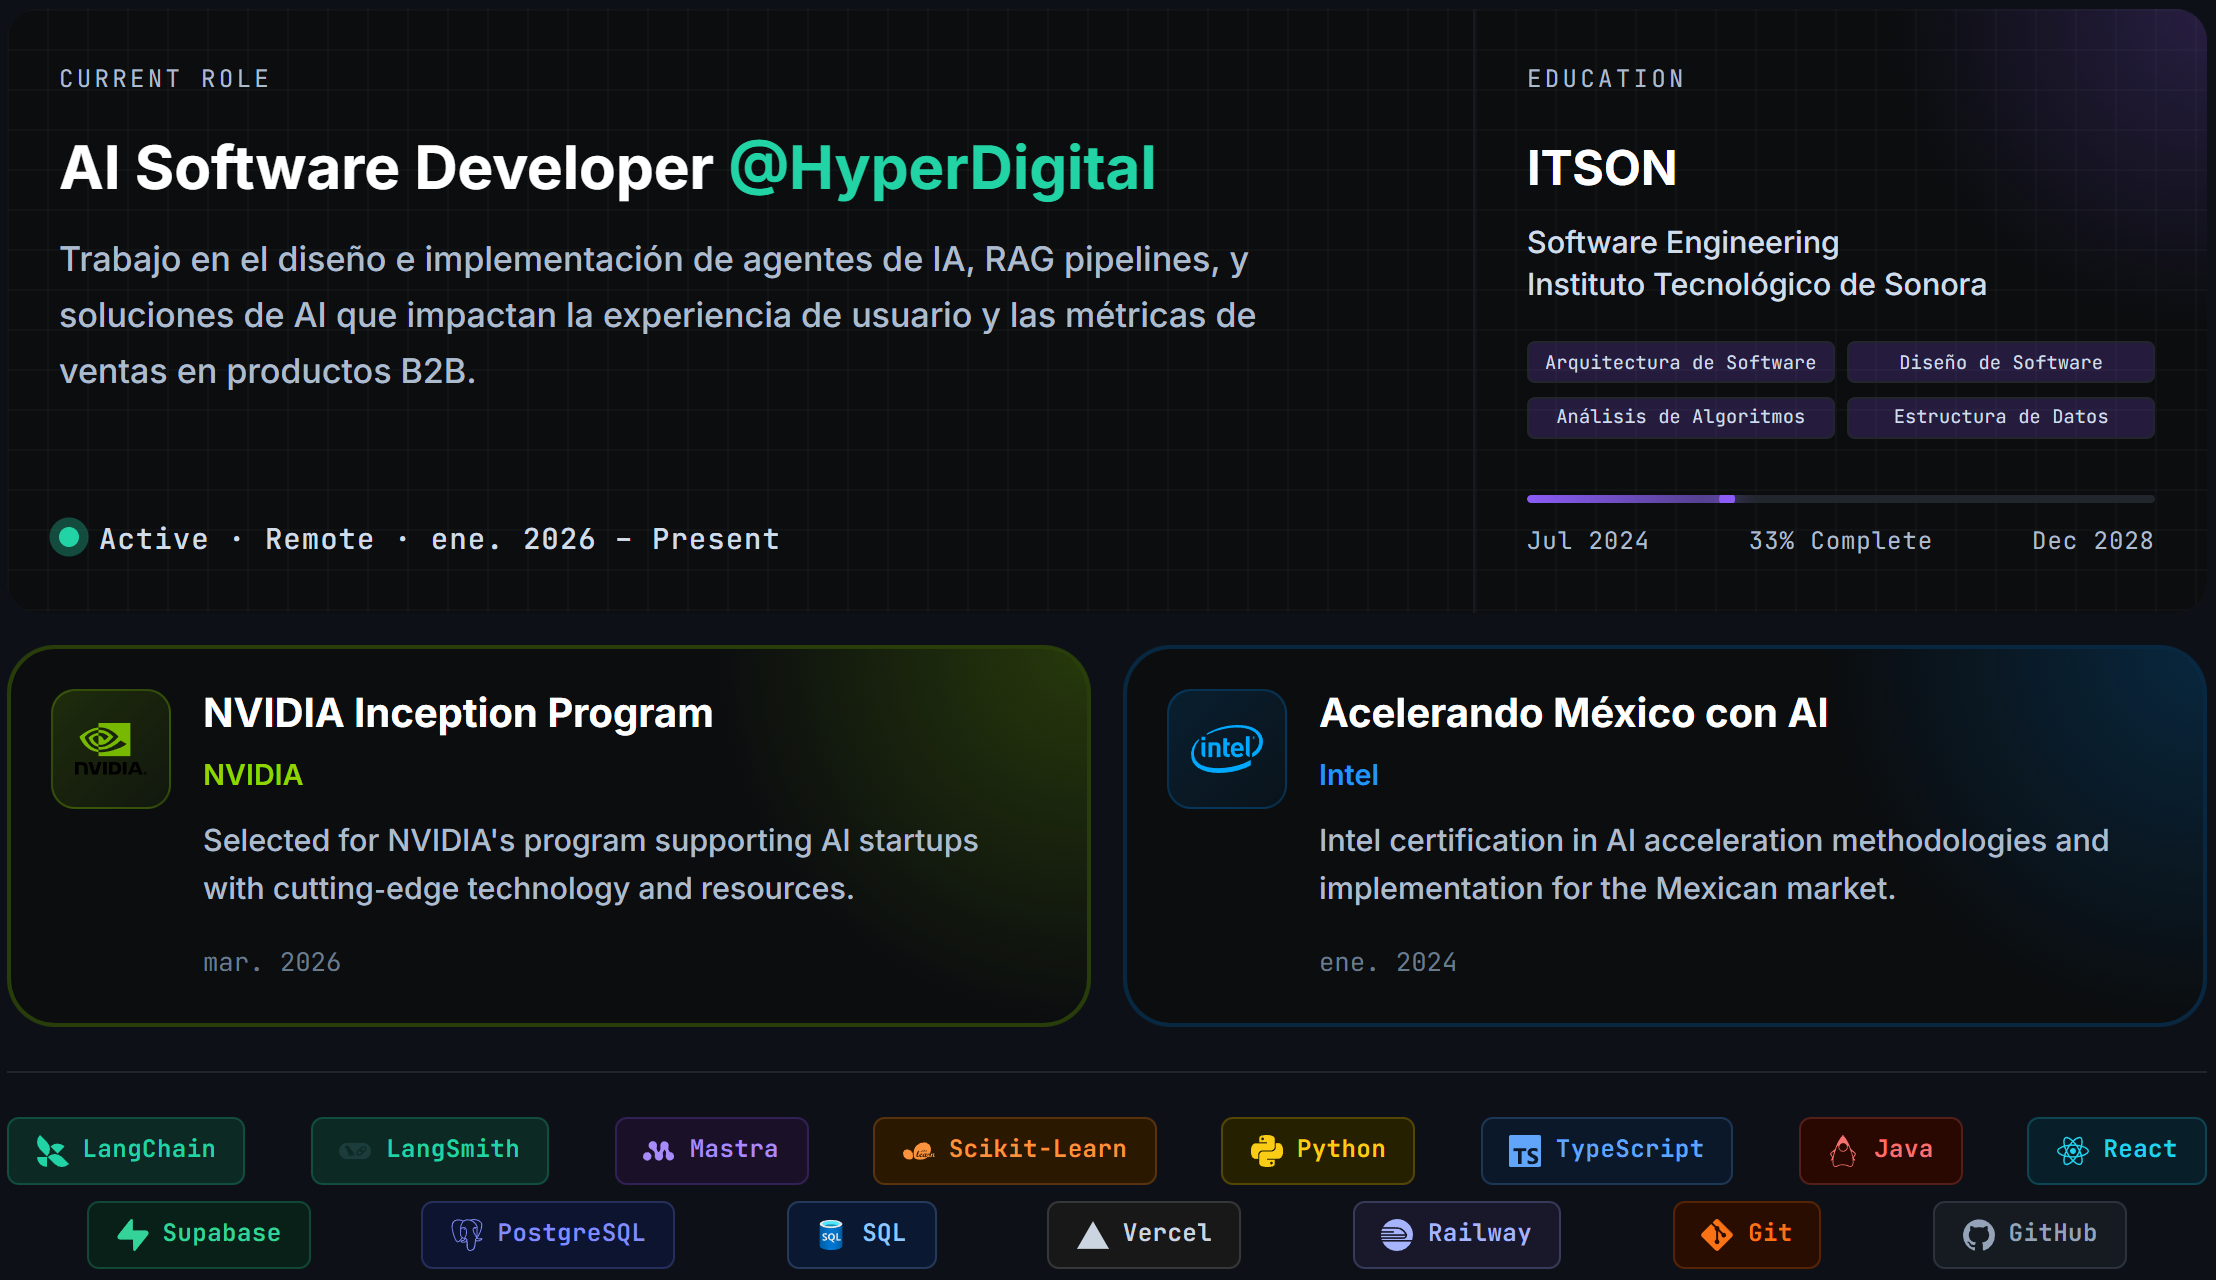
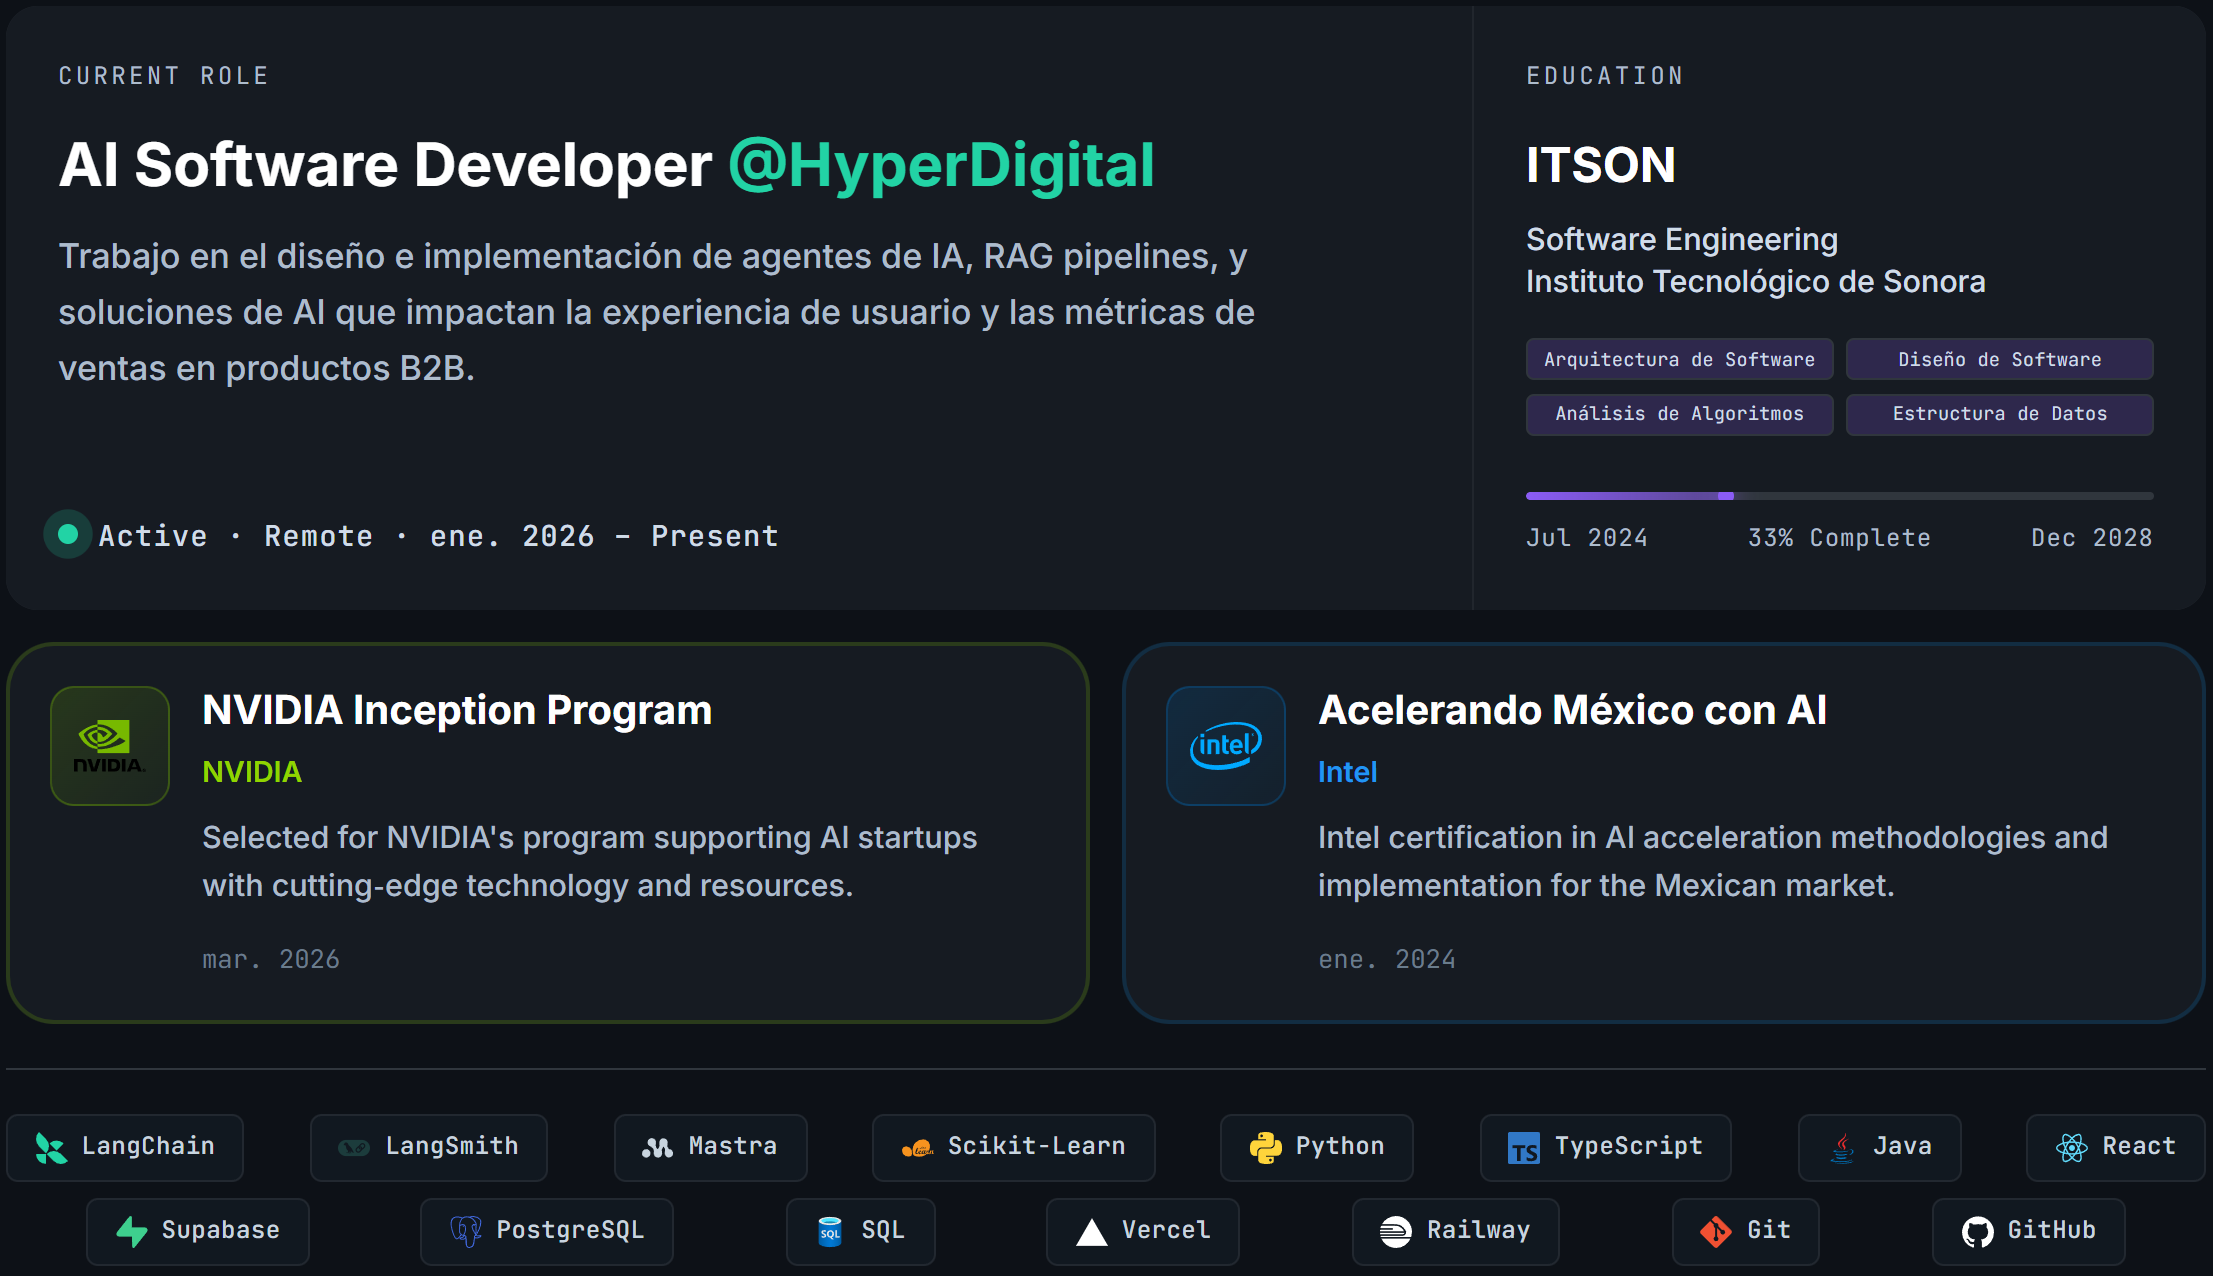
update: new profile

diff --git a/experience-profile.html b/experience-profile.html
@@ -14,13 +14,13 @@
     :root {
       --bg-base: #0d1117;
       --bg-surface: #010409;
-      --bg-card: #0b0d0f;
-      --bg-card-hover: #0f1214;
-      --bg-card-2: #111416;
+      --bg-card: #161b22;
+      --bg-card-hover: #1c2128;
+      --bg-card-2: #21262d;
 
-      --border: #21262d;
-      --border-medium: #161b22;
-      --border-strong: #30363d;
+      --border: #30363d;
+      --border-medium: #21262d;
+      --border-strong: #484f58;
 
       --text: #ffffff;
       --text-secondary: #d0dce8;
@@ -350,12 +350,12 @@
 
     .ach-nvidia {
       background: var(--bg-card);
-      border: 2px solid rgba(118, 185, 0, 0.28);
+      border: 2px solid rgba(118, 185, 0, 0.20);
     }
 
     .ach-intel {
       background: var(--bg-card);
-      border: 2px solid rgba(0, 113, 197, 0.28);
+      border: 2px solid rgba(0, 113, 197, 0.20);
     }
 
     .ach-row {
@@ -711,57 +711,9 @@
       line-height: 1.35;
     }
 
-    /* ─── Fixed grid + neon glow effects (ported from hover-only in portfolio) ─── */
-    .fx-grid,
-    .fx-glow {
-      position: relative;
-    }
-
-    .fx-grid::before {
-      content: '';
-      position: absolute;
-      inset: 0;
-      pointer-events: none;
-      z-index: 0;
-      background-image:
-        linear-gradient(rgba(255, 255, 255, 0.025) 1px, transparent 1px),
-        linear-gradient(90deg, rgba(255, 255, 255, 0.025) 1px, transparent 1px);
-      background-size: 20px 20px;
-    }
-
-    .fx-glow::after {
-      content: '';
-      position: absolute;
-      top: 0;
-      right: 0;
-      pointer-events: none;
-      z-index: 0;
-    }
-
-    .fx-glow-purple::after {
-      width: 160px;
-      height: 160px;
-      background: radial-gradient(circle at top right, rgba(139, 92, 246, 0.22) 0%, transparent 70%);
-    }
-
-    .fx-glow-nvidia::after {
-      width: 190px;
-      height: 190px;
-      background: radial-gradient(circle at top right, rgba(118, 185, 0, 0.26) 0%, transparent 70%);
-    }
-
-    .fx-glow-intel::after {
-      width: 190px;
-      height: 190px;
-      background: radial-gradient(circle at top right, rgba(0, 113, 197, 0.26) 0%, transparent 70%);
-    }
-
-    /* Elevate direct children above pseudo effects */
-    .fx-grid>*,
-    .fx-glow>* {
-      position: relative;
-      z-index: 1;
-    }
+    /* ─── Subtle card effects ─── */
+    .fx-grid, .fx-glow { position: relative; }
+    .fx-grid>*, .fx-glow>* { position: relative; z-index: 1; }
 
     /* ─── Stack section ─── */
     .stack-section {
@@ -792,10 +744,12 @@
       gap: 0.45rem;
       padding: 0.4rem 0.85rem;
       border-radius: 6px;
-      border: 1px solid transparent;
+      background: #111820;
+      border: 1px solid rgba(255,255,255,0.07);
       font-family: 'JetBrains Mono', monospace;
       font-size: 0.75rem;
-      font-weight: 600;
+      font-weight: 500;
+      color: #c8d4df;
       white-space: nowrap;
       letter-spacing: 0.02em;
     }
@@ -903,24 +857,24 @@
         <div class="stack-chips">
           <!-- Row 1: 8 chips -->
           <div class="stack-chip-row">
-            <span class="chip" style="background:#0d2923;border-color:rgba(34,211,165,.22);color:#22d3a5"><img src="https://cdn.simpleicons.org/langchain/22d3a5" alt=""/>LangChain</span>
-            <span class="chip" style="background:#0d2923;border-color:rgba(34,211,165,.22);color:#22d3a5"><img src="https://registry.npmmirror.com/@lobehub/icons-static-png/1.24.0/files/dark/langchain-color.png" alt=""/>LangSmith</span>
-            <span class="chip" style="background:#1a1028;border-color:rgba(139,92,246,.22);color:#a78bfa"><svg width="16" height="16" viewBox="0 0 34 21" fill="none"><path fill="#a78bfa" d="M4.5 11.7a4.5 4.5 0 1 1 0 9 4.5 4.5 0 0 1 0-9M10.4 0a4.5 4.5 0 0 1 4.4 5.5c-.3 1.4-.6 3 .2 4.2l1.3 1.8.3.2q.2 0 .3-.2l1.3-1.9c.8-1.1.5-2.7.2-4a4.5 4.5 0 1 1 8.8 0c-.3 1.3-.6 2.8 0 4l1.3 2a4.5 4.5 0 1 1-4.3 3.5c.3-1.3.6-2.8 0-4l-1.2-2h-.2L21.5 11c-.8 1.2-.5 2.8-.2 4.2a4.5 4.5 0 1 1-8.8.2q.5-2-.4-3.8l-.9-1.3q-.9-1.1-2.4-1.6A4.5 4.5 0 0 1 10.4 0"/></svg>Mastra</span>
-            <span class="chip" style="background:#2a1800;border-color:rgba(251,146,60,.22);color:#fb923c"><img src="https://cdn.simpleicons.org/scikitlearn/fb923c" alt=""/>Scikit-Learn</span>
-            <span class="chip" style="background:#252100;border-color:rgba(250,204,21,.22);color:#facc15"><img src="https://cdn.simpleicons.org/python/facc15" alt=""/>Python</span>
-            <span class="chip" style="background:#0a1829;border-color:rgba(96,165,250,.22);color:#60a5fa"><img src="https://cdn.simpleicons.org/typescript/60a5fa" alt=""/>TypeScript</span>
-            <span class="chip" style="background:#280800;border-color:rgba(248,113,113,.22);color:#f87171"><img src="https://cdn.simpleicons.org/openjdk/f87171" alt=""/>Java</span>
-            <span class="chip" style="background:#081e28;border-color:rgba(34,211,238,.22);color:#22d3ee"><img src="https://cdn.simpleicons.org/react/22d3ee" alt=""/>React</span>
+            <span class="chip"><img src="https://cdn.simpleicons.org/langchain/22d3a5" alt=""/>LangChain</span>
+            <span class="chip"><img src="https://registry.npmmirror.com/@lobehub/icons-static-png/1.24.0/files/dark/langchain-color.png" alt=""/>LangSmith</span>
+            <span class="chip"><svg width="16" height="16" viewBox="0 0 34 21" fill="none"><path fill="#c8d4df" d="M4.5 11.7a4.5 4.5 0 1 1 0 9 4.5 4.5 0 0 1 0-9M10.4 0a4.5 4.5 0 0 1 4.4 5.5c-.3 1.4-.6 3 .2 4.2l1.3 1.8.3.2q.2 0 .3-.2l1.3-1.9c.8-1.1.5-2.7.2-4a4.5 4.5 0 1 1 8.8 0c-.3 1.3-.6 2.8 0 4l1.3 2a4.5 4.5 0 1 1-4.3 3.5c.3-1.3.6-2.8 0-4l-1.2-2h-.2L21.5 11c-.8 1.2-.5 2.8-.2 4.2a4.5 4.5 0 1 1-8.8.2q.5-2-.4-3.8l-.9-1.3q-.9-1.1-2.4-1.6A4.5 4.5 0 0 1 10.4 0"/></svg>Mastra</span>
+            <span class="chip"><img src="https://cdn.simpleicons.org/scikitlearn/F7931E" alt=""/>Scikit-Learn</span>
+            <span class="chip"><img src="https://cdn.simpleicons.org/python/FFD43B" alt=""/>Python</span>
+            <span class="chip"><img src="https://cdn.simpleicons.org/typescript/3178C6" alt=""/>TypeScript</span>
+            <span class="chip"><img src="https://cdn.jsdelivr.net/gh/devicons/devicon/icons/java/java-original.svg" alt=""/>Java</span>
+            <span class="chip"><img src="https://cdn.simpleicons.org/react/61DAFB" alt=""/>React</span>
           </div>
           <!-- Row 2: 7 chips -->
           <div class="stack-chip-row centered">
-            <span class="chip" style="background:#082018;border-color:rgba(52,211,153,.22);color:#34d399"><img src="https://cdn.simpleicons.org/supabase/34d399" alt=""/>Supabase</span>
-            <span class="chip" style="background:#0d1430;border-color:rgba(129,140,248,.22);color:#818cf8"><img src="https://cdn.simpleicons.org/postgresql/818cf8" alt=""/>PostgreSQL</span>
-            <span class="chip" style="background:#0a1832;border-color:rgba(147,197,253,.20);color:#93c5fd"><img src="https://cdn.jsdelivr.net/gh/devicons/devicon/icons/azuresqldatabase/azuresqldatabase-original.svg" alt=""/>SQL</span>
-            <span class="chip" style="background:#181818;border-color:rgba(226,232,240,.15);color:#cbd5e1"><img src="https://cdn.simpleicons.org/vercel/cbd5e1" alt=""/>Vercel</span>
-            <span class="chip" style="background:#18182a;border-color:rgba(165,180,252,.22);color:#a5b4fc"><img src="https://cdn.simpleicons.org/railway/a5b4fc" alt=""/>Railway</span>
-            <span class="chip" style="background:#280d00;border-color:rgba(249,115,22,.22);color:#f97316"><img src="https://cdn.simpleicons.org/git/f97316" alt=""/>Git</span>
-            <span class="chip" style="background:#161b22;border-color:rgba(148,163,184,.18);color:#94a3b8"><img src="https://cdn.simpleicons.org/github/94a3b8" alt=""/>GitHub</span>
+            <span class="chip"><img src="https://cdn.simpleicons.org/supabase/3ECF8E" alt=""/>Supabase</span>
+            <span class="chip"><img src="https://cdn.simpleicons.org/postgresql/4169E1" alt=""/>PostgreSQL</span>
+            <span class="chip"><img src="https://cdn.jsdelivr.net/gh/devicons/devicon/icons/azuresqldatabase/azuresqldatabase-original.svg" alt=""/>SQL</span>
+            <span class="chip"><img src="https://cdn.simpleicons.org/vercel/ffffff" alt=""/>Vercel</span>
+            <span class="chip"><img src="https://cdn.simpleicons.org/railway/ffffff" alt=""/>Railway</span>
+            <span class="chip"><img src="https://cdn.simpleicons.org/git/F05032" alt=""/>Git</span>
+            <span class="chip"><img src="https://cdn.simpleicons.org/github/ffffff" alt=""/>GitHub</span>
           </div>
         </div>
       </div>
